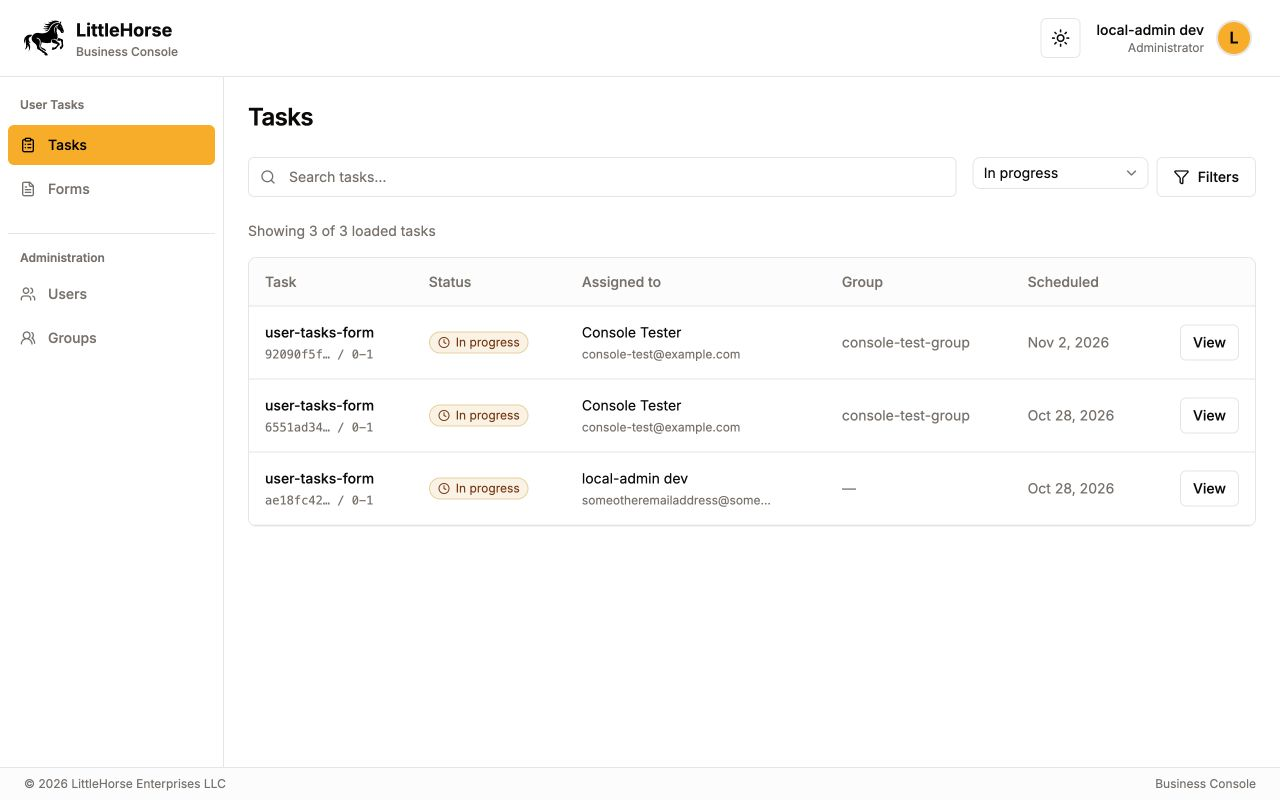
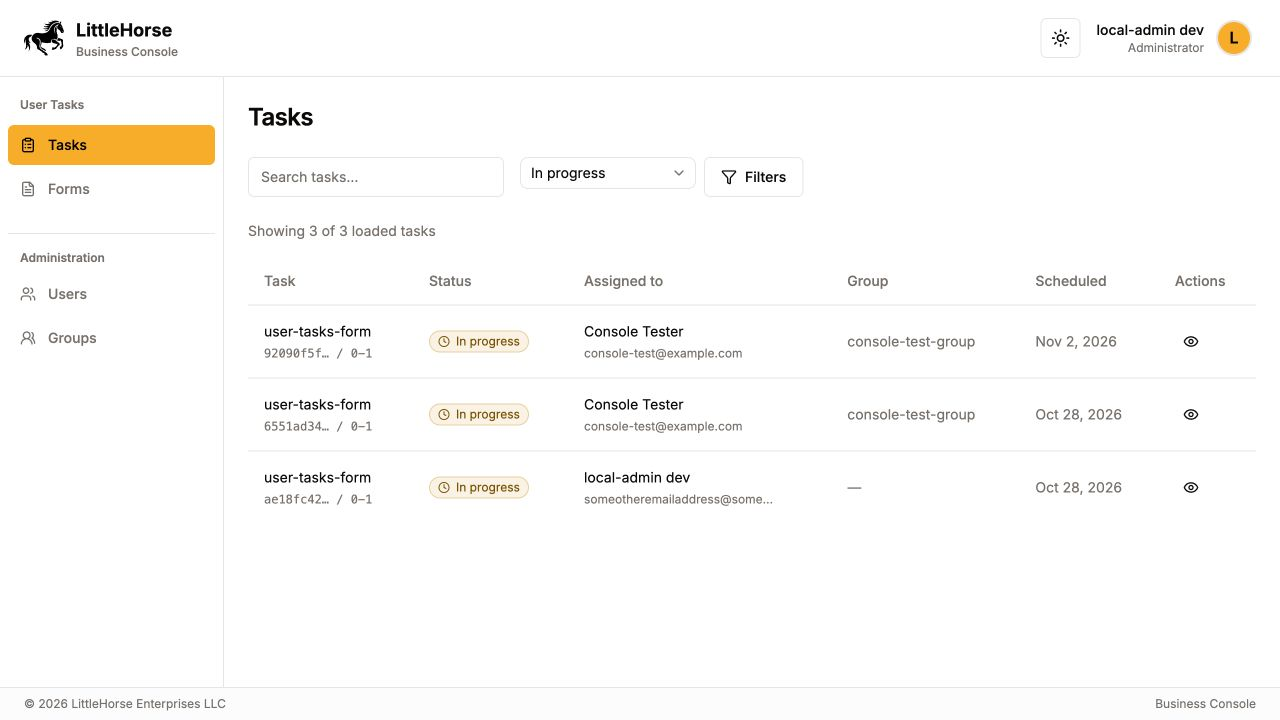
style(console): align task tables with Saddle

diff --git a/console/src/app/[tenantId]/admin/components/userTaskDefs.tsx b/console/src/app/[tenantId]/admin/components/userTaskDefs.tsx
@@ -18,11 +18,16 @@ import {
   TableRow,
 } from "@littlehorse-enterprises/ui-library/table";
 import {
+  Tooltip,
+  TooltipContent,
+  TooltipTrigger,
+} from "@littlehorse-enterprises/ui-library/tooltip";
+import {
   UserTaskStatus,
   type UserTaskRunListDTO,
 } from "@littlehorse-enterprises/user-tasks-bridge-api-client";
 import { useQuery } from "@tanstack/react-query";
-import { AlertCircle, RefreshCw, Search, X } from "lucide-react";
+import { AlertCircle, ListTodo, RefreshCw, X } from "lucide-react";
 import { useSession } from "next-auth/react";
 import Link from "next/link";
 import { useState } from "react";
@@ -128,27 +133,27 @@ export default function UserTaskDefs({
 
   return (
     <div className="space-y-4">
-      <div className="relative max-w-lg">
-        <Search
-          aria-hidden
-          className="pointer-events-none absolute left-3 top-3 size-4 text-muted-foreground"
-        />
+      <div className="relative w-full sm:w-64">
         <Input
           aria-label="Search forms"
           placeholder="Search forms..."
           value={search}
           onChange={(event) => setSearch(event.target.value)}
-          className="pl-9 pr-10"
+          className="pr-10"
+          onKeyDown={(event) => {
+            if (event.key === "Escape") setSearch("");
+          }}
         />
         {search && (
-          <button
-            type="button"
+          <Button
+            variant="ghost"
+            size="icon"
             aria-label="Clear form search"
             onClick={() => setSearch("")}
-            className="absolute right-3 top-3 text-muted-foreground hover:text-foreground"
+            className="absolute top-1/2 right-2 h-6 w-6 -translate-y-1/2"
           >
             <X className="size-4" />
-          </button>
+          </Button>
         )}
       </div>
       {countError && (
@@ -170,11 +175,14 @@ export default function UserTaskDefs({
           </Button>
         </Alert>
       )}
-      <div className="overflow-hidden rounded-lg border border-border bg-card">
+      <p className="text-sm text-muted-foreground">
+        Showing {matchingForms.length} of {userTaskDefs.length} loaded forms
+      </p>
+      <div>
         <Table aria-label="Forms">
           <TableHeader>
-            <TableRow className="border-border bg-muted/30">
-              <TableHead className="pl-4">Form</TableHead>
+            <TableRow className="border-border hover:bg-transparent">
+              <TableHead className="w-2/5">Form</TableHead>
               <TableHead className="text-right whitespace-nowrap">
                 Total tasks
               </TableHead>
@@ -182,9 +190,7 @@ export default function UserTaskDefs({
               <TableHead className="text-right whitespace-nowrap">
                 Assigned to me
               </TableHead>
-              <TableHead className="pr-4">
-                <span className="sr-only">Actions</span>
-              </TableHead>
+              <TableHead>Actions</TableHead>
             </TableRow>
           </TableHeader>
           <TableBody>
@@ -192,27 +198,45 @@ export default function UserTaskDefs({
               const form = counts?.find((item) => item.name === name);
               const href = `/${tenantId}/admin/${encodeURIComponent(name)}`;
               return (
-                <TableRow key={name} className="border-border">
-                  <TableCell className="pl-4 py-4">
-                    <Link href={href} className="font-medium hover:underline">
+                <TableRow
+                  key={name}
+                  className="border-border last:border-b-0 hover:bg-transparent"
+                >
+                  <TableCell>
+                    <Link href={href} className="hover:underline">
                       {name}
                     </Link>
                   </TableCell>
                   <TableCell className="text-right tabular-nums">
                     <Count count={form?.total} loading={loadingCounts} />
                   </TableCell>
-                  <TableCell className="text-right tabular-nums text-blue-700 dark:text-blue-300">
+                  <TableCell className="text-right tabular-nums text-info-fg">
                     <Count count={form?.available} loading={loadingCounts} />
                   </TableCell>
-                  <TableCell className="text-right tabular-nums text-amber-900 dark:text-amber-200">
+                  <TableCell className="text-right tabular-nums text-warning-strong">
                     <Count count={form?.assignedToMe} loading={loadingCounts} />
                   </TableCell>
-                  <TableCell className="pr-4 text-right">
-                    <Button variant="outline" size="sm" asChild>
-                      <Link href={href} aria-label={`View tasks for ${name}`}>
-                        View tasks
-                      </Link>
-                    </Button>
+                  <TableCell>
+                    <div className="flex items-center gap-1">
+                      <Tooltip>
+                        <TooltipTrigger asChild>
+                          <Button
+                            variant="ghost"
+                            size="icon"
+                            className="h-8 w-8"
+                            asChild
+                          >
+                            <Link
+                              href={href}
+                              aria-label={`View tasks for ${name}`}
+                            >
+                              <ListTodo aria-hidden className="h-4 w-4" />
+                            </Link>
+                          </Button>
+                        </TooltipTrigger>
+                        <TooltipContent>View tasks</TooltipContent>
+                      </Tooltip>
+                    </div>
                   </TableCell>
                 </TableRow>
               );
@@ -231,9 +255,6 @@ export default function UserTaskDefs({
             )}
           </TableBody>
         </Table>
-        <p className="border-t border-border px-4 py-3 text-xs text-muted-foreground">
-          Showing {matchingForms.length} of {userTaskDefs.length} loaded forms
-        </p>
       </div>
     </div>
   );

diff --git a/console/src/app/[tenantId]/components/user-task/table.tsx b/console/src/app/[tenantId]/components/user-task/table.tsx
@@ -16,7 +16,13 @@ import {
   TableHeader,
   TableRow,
 } from "@littlehorse-enterprises/ui-library/table";
+import {
+  Tooltip,
+  TooltipContent,
+  TooltipTrigger,
+} from "@littlehorse-enterprises/ui-library/tooltip";
 import type { SimpleUserTaskRunDTO } from "@littlehorse-enterprises/user-tasks-bridge-api-client";
+import { Eye } from "lucide-react";
 import { useEffect, useState } from "react";
 import UserTask from "./index";
 import { TaskStatus } from "./status";
@@ -43,18 +49,16 @@ export default function TaskTable({
 
   return (
     <>
-      <div className="overflow-hidden rounded-lg border border-border bg-card">
+      <div>
         <Table aria-label="Tasks">
           <TableHeader>
-            <TableRow className="border-border bg-muted/30">
-              <TableHead className="pl-4">Task</TableHead>
+            <TableRow className="border-border hover:bg-transparent">
+              <TableHead>Task</TableHead>
               <TableHead>Status</TableHead>
               <TableHead>Assigned to</TableHead>
               <TableHead>Group</TableHead>
               <TableHead>Scheduled</TableHead>
-              <TableHead className="pr-4">
-                <span className="sr-only">Actions</span>
-              </TableHead>
+              <TableHead>Actions</TableHead>
             </TableRow>
           </TableHeader>
           <TableBody>
@@ -71,12 +75,15 @@ export default function TaskTable({
                     task.user.id
                 : "Unassigned";
               return (
-                <TableRow key={taskKey(task)} className="border-border">
-                  <TableCell className="pl-4 py-3">
+                <TableRow
+                  key={taskKey(task)}
+                  className="border-border last:border-b-0 hover:bg-transparent"
+                >
+                  <TableCell>
                     <button
                       type="button"
                       onClick={() => setSelectedKey(taskKey(task))}
-                      className="block max-w-64 rounded text-left font-medium hover:underline focus-visible:outline-2 focus-visible:outline-ring"
+                      className="block max-w-64 rounded text-left hover:underline focus-visible:outline-2 focus-visible:outline-ring"
                       aria-label={`Open ${task.userTaskDefName} task ${reference}`}
                     >
                       <span className="block truncate">
@@ -126,15 +133,23 @@ export default function TaskTable({
                       )}
                     </time>
                   </TableCell>
-                  <TableCell className="pr-4 text-right">
-                    <Button
-                      variant="outline"
-                      size="sm"
-                      onClick={() => setSelectedKey(taskKey(task))}
-                      aria-label={`View task ${reference}`}
-                    >
-                      View
-                    </Button>
+                  <TableCell>
+                    <div className="flex items-center gap-1">
+                      <Tooltip>
+                        <TooltipTrigger asChild>
+                          <Button
+                            variant="ghost"
+                            size="icon"
+                            className="h-8 w-8"
+                            onClick={() => setSelectedKey(taskKey(task))}
+                            aria-label={`View task ${reference}`}
+                          >
+                            <Eye aria-hidden className="h-4 w-4" />
+                          </Button>
+                        </TooltipTrigger>
+                        <TooltipContent>View task details</TooltipContent>
+                      </Tooltip>
+                    </div>
                   </TableCell>
                 </TableRow>
               );

diff --git a/console/src/app/globals.css b/console/src/app/globals.css
@@ -1,5 +1,54 @@
 @import "@littlehorse-enterprises/ui-library/index.css";
-@import "tailwindcss";
+/* Match Saddle's utility build without applying a second preflight. */
+@import "tailwindcss/theme.css" layer(theme);
+@import "tailwindcss/utilities.css" layer(utilities);
+@source "../../node_modules/@littlehorse-enterprises/ui-library/dist";
+
+/* Saddle's semantic text colors retain contrast over the soft status fills. */
+:root {
+  --success-strong: oklch(45% 0.13 145);
+  --warning-strong: oklch(47% 0.12 80);
+  --muted-strong: oklch(45% 0.0117 58.07);
+  --info-fg: oklch(46% 0.13 258);
+}
+
+.dark {
+  --success-strong: oklch(84% 0.15 145);
+  --warning-strong: oklch(85% 0.15 80);
+  --muted-strong: oklch(78% 0.009 56.26);
+  --info-fg: oklch(78% 0.1 258);
+}
+
+@theme inline {
+  --default-font-family: var(--font-inter);
+  --default-mono-font-family: "JetBrains Mono", monospace;
+  --color-background: var(--background);
+  --color-foreground: var(--foreground);
+  --color-card: var(--card);
+  --color-card-foreground: var(--card-foreground);
+  --color-popover: var(--popover);
+  --color-popover-foreground: var(--popover-foreground);
+  --color-primary: var(--primary);
+  --color-primary-foreground: var(--primary-foreground);
+  --color-secondary: var(--secondary);
+  --color-secondary-foreground: var(--secondary-foreground);
+  --color-muted: var(--muted);
+  --color-muted-foreground: var(--muted-foreground);
+  --color-accent: var(--accent);
+  --color-accent-foreground: var(--accent-foreground);
+  --color-destructive: var(--destructive);
+  --color-destructive-foreground: var(--destructive-foreground);
+  --color-border: var(--border);
+  --color-input: var(--input);
+  --color-ring: var(--ring);
+  --color-success: var(--success);
+  --color-warning: var(--warning);
+  --color-success-strong: var(--success-strong);
+  --color-warning-strong: var(--warning-strong);
+  --color-muted-strong: var(--muted-strong);
+  --color-info-fg: var(--info-fg);
+  --color-tint-blue-bg: var(--tint-blue-bg);
+}
 
 /*
  * ui-library 1.1.0 flipped --primary-foreground from black to near-white while

diff --git a/console/src/app/[tenantId]/components/user-task/list.tsx b/console/src/app/[tenantId]/components/user-task/list.tsx
@@ -34,7 +34,7 @@ import {
   UserTaskRunListDTO,
   UserTaskStatus,
 } from "@littlehorse-enterprises/user-tasks-bridge-api-client";
-import { AlertCircle, FilterIcon, RefreshCw, Search, X } from "lucide-react";
+import { AlertCircle, FilterIcon, RefreshCw, X } from "lucide-react";
 import {
   useParams,
   usePathname,
@@ -251,23 +251,27 @@ export default function ListUserTasks({
       {/* Search and Filters */}
       <div className="flex flex-col sm:flex-row gap-4">
         {/* Search */}
-        <div className="relative flex-1">
-          <Search className="absolute left-3 top-1/2 transform -translate-y-1/2 h-4 w-4 text-muted-foreground" />
+        <div className="relative w-full sm:w-64">
           <Input
             aria-label="Search tasks"
             placeholder="Search tasks..."
             value={search}
             onChange={(e) => setSearch(e.target.value)}
-            className="pl-10 pr-10"
+            className="pr-10"
+            onKeyDown={(event) => {
+              if (event.key === "Escape") setSearch("");
+            }}
           />
           {search && (
-            <button
+            <Button
+              variant="ghost"
+              size="icon"
               onClick={() => setSearch("")}
               aria-label="Clear search"
-              className="absolute right-3 top-1/2 transform -translate-y-1/2 text-muted-foreground hover:text-foreground"
+              className="absolute top-1/2 right-2 h-6 w-6 -translate-y-1/2"
             >
               <X className="h-4 w-4" />
-            </button>
+            </Button>
           )}
         </div>
 

diff --git a/console/src/app/[tenantId]/components/user-task/status.tsx b/console/src/app/[tenantId]/components/user-task/status.tsx
@@ -6,25 +6,22 @@ export function TaskStatus({ status }: { status: string }) {
     ASSIGNED: {
       label: "In progress",
       icon: Clock,
-      className:
-        "border-warning/30 bg-warning/10 text-amber-900 dark:text-amber-200",
+      className: "border-warning/30 bg-warning/10 text-warning-strong",
     },
     UNASSIGNED: {
       label: "Available",
       icon: AlertCircle,
-      className:
-        "border-blue-200 bg-blue-50 text-blue-800 dark:border-blue-800 dark:bg-blue-950/50 dark:text-blue-200",
+      className: "border-info-fg/30 bg-tint-blue-bg text-info-fg",
     },
     DONE: {
       label: "Completed",
       icon: CheckCircle2,
-      className:
-        "border-success/30 bg-success/10 text-green-800 dark:text-green-200",
+      className: "border-success/30 bg-success/10 text-success-strong",
     },
     CANCELLED: {
       label: "Cancelled",
       icon: XCircle,
-      className: "border-destructive/30 bg-destructive/10 text-destructive",
+      className: "border-border bg-muted text-muted-strong",
     },
   };
   const style = styles[status as keyof typeof styles];

diff --git a/docs/home-page-concept.md b/docs/home-page-concept.md
@@ -57,6 +57,15 @@ Both tables retain horizontal scrolling on smaller screens instead of reverting
 to cards. Available-task pagination includes every loaded page; its date filters
 are forwarded to the existing API, while group selection stays in its group tabs.
 
+Table styling follows Saddle's Tasks and Workflows lists: the shared UI-library
+table sits directly on the page, with unfilled headers, standard cell padding,
+subtle row separators, and left-aligned 32px ghost icon actions with tooltips.
+Search inputs use Saddle's compact width and clear control. Status badges use
+Saddle's semantic soft fills and contrast-adjusted text colors; cancelled tasks
+are neutral. The utility build also follows Saddle's single-preflight setup.
+Reference: `lh-saddle/ui/src/components/tasks/TaskTable.tsx`, `TaskRow.tsx`,
+`TaskActions.tsx`, and `ui/src/app/theme-override.css` on Saddle's main branch.
+
 ## Navigation and existing capabilities
 
 | View                | URL beneath `/<tenant>`         | Existing behavior retained                                                                                                     |
